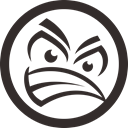
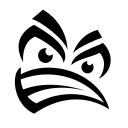
更新版本号至 1.0.2，调整图标路径并更新配置项，删除旧的图标和 VSIX 文件

diff --git a/vscode-cc65-compiler/extension.js b/vscode-cc65-compiler/extension.js
@@ -25,17 +25,17 @@ function activate(context) {
         return;
       }
 
-  if (path.extname(fileUri.fsPath).toLowerCase() !== '.asm') {
+      if (path.extname(fileUri.fsPath).toLowerCase() !== '.asm') {
         output.appendLine('只支持 .asm 文件。');
         output.show(true);
         return;
       }
 
-  // Read configuration from settings
-  const config = vscode.workspace.getConfiguration('cc65');
-  const workspaceFolders = vscode.workspace.workspaceFolders || [];
-  const defaultCfg = workspaceFolders.length ? path.join(workspaceFolders[0].uri.fsPath, '.vscode', 'cc65.cfg') : '';
-  const configuredCfg = config.get('cfgPath', '');
+      // Read configuration from settings
+      const config = vscode.workspace.getConfiguration('cc65');
+      const workspaceFolders = vscode.workspace.workspaceFolders || [];
+      const defaultCfg = workspaceFolders.length ? path.join(workspaceFolders[0].uri.fsPath, '.vscode', 'cc65.cfg') : '';
+      const configuredCfg = config.get('cfgPath', '');
       let cfgPath = '';
       if (configuredCfg && configuredCfg.length) {
         cfgPath = configuredCfg;
@@ -50,18 +50,22 @@ function activate(context) {
         cfgPath = defaultCfg;
       }
 
-  const asmPath = fileUri.fsPath;
+      const asmPath = fileUri.fsPath;
       const asmDir = path.dirname(asmPath);
       const asmBase = path.basename(asmPath, '.asm');
       const objFile = `${asmBase}.o`;
-      const exeFile = `${asmBase}.exe`;
+      // 获取输出文件扩展名，默认 'bin'（设置时只填写不带前导点的扩展名，例如 'bin' 或 'exe'）
+      const outputExtRaw = config.get('outputExtension', 'bin');
+      // 去掉可能的前导点，然后加上点以构造实际文件扩展名
+      const outputExt = (typeof outputExtRaw === 'string' && outputExtRaw.length > 0) ? ('.' + outputExtRaw.replace(/^\./, '')) : '.bin';
+      const exeFile = `${asmBase}${outputExt}`;
       // Use child_process to run compilers quietly and capture their output
       const cp = require('child_process');
       const fs = require('fs');
 
-  const ca65cmd = config.get('ca65Path', 'ca65');
-  const ld65cmd = config.get('ld65Path', 'ld65');
-  const keepObj = config.get('keepObj', false);
+      const ca65cmd = config.get('ca65Path', 'ca65');
+      const ld65cmd = config.get('ld65Path', 'ld65');
+      const keepObj = config.get('keepObj', false);
 
       // resolve cfgPath relative to workspace if not absolute
       if (cfgPath && cfgPath.length && !path.isAbsolute(cfgPath)) {
@@ -86,8 +90,8 @@ function activate(context) {
         });
       }
 
-  // Run ca65
-  output.appendLine(`运行: ${ca65cmd} ${asmPath}`);
+      // Run ca65
+      output.appendLine(`运行: ${ca65cmd} ${asmPath}`);
       const ca65Result = await runCommand(ca65cmd, [asmPath]);
       if (ca65Result.stdout) output.appendLine(ca65Result.stdout);
       if (ca65Result.stderr) output.appendLine(ca65Result.stderr);
@@ -104,7 +108,7 @@ function activate(context) {
         ldArgs.push('-C', cfgPath);
       }
       ldArgs.push(objFile, '-o', exeFile);
-  output.appendLine(`运行: ${ld65cmd} ${ldArgs.join(' ')}`);
+      output.appendLine(`运行: ${ld65cmd} ${ldArgs.join(' ')}`);
       const ld65Result = await runCommand(ld65cmd, ldArgs);
       if (ld65Result.stdout) output.appendLine(ld65Result.stdout);
       if (ld65Result.stderr) output.appendLine(ld65Result.stderr);
@@ -120,8 +124,8 @@ function activate(context) {
         try { fs.unlinkSync(path.join(asmDir, objFile)); } catch (e) { /* ignore */ }
       }
 
-  output.appendLine('编译成功。');
-  output.show(false);
+      output.appendLine('编译成功。');
+      output.show(false);
 
     } catch (err) {
       output.appendLine('编译过程中出错：' + err.message);
@@ -139,7 +143,7 @@ function quotePath(p) {
   return p;
 }
 
-function deactivate() {}
+function deactivate() { }
 
 module.exports = {
   activate,
